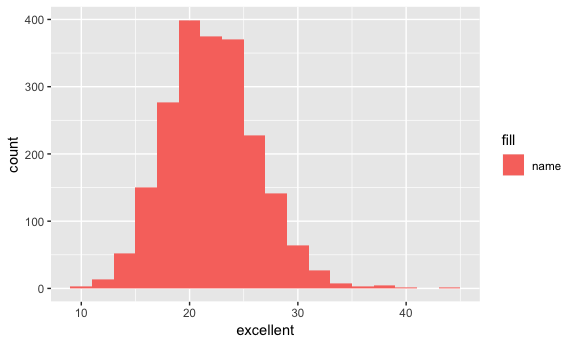
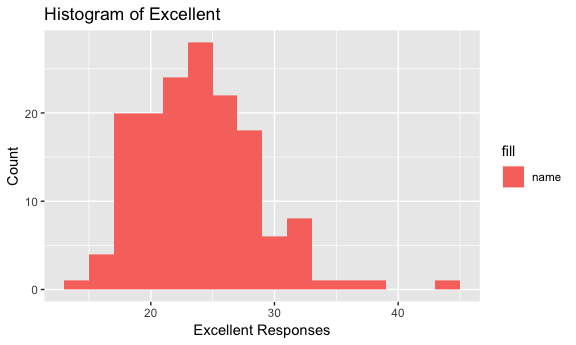
Edits

diff --git a/p8105_hw2_qg2155.md b/p8105_hw2_qg2155.md
@@ -3,44 +3,6 @@ p8105\_hw2\_qg2155
 Qiu Xia (Helen) Guan
 9/28/2018
 
-``` r
-library(tidyverse)
-```
-
-    ## ── Attaching packages ────────────────────────────────────────────────────────────── tidyverse 1.2.1 ──
-
-    ## ✔ ggplot2 3.0.0     ✔ purrr   0.2.5
-    ## ✔ tibble  1.4.2     ✔ dplyr   0.7.6
-    ## ✔ tidyr   0.8.1     ✔ stringr 1.3.1
-    ## ✔ readr   1.1.1     ✔ forcats 0.3.0
-
-    ## ── Conflicts ───────────────────────────────────────────────────────────────── tidyverse_conflicts() ──
-    ## ✖ dplyr::filter() masks stats::filter()
-    ## ✖ dplyr::lag()    masks stats::lag()
-
-``` r
-library(magrittr)
-```
-
-    ## 
-    ## Attaching package: 'magrittr'
-
-    ## The following object is masked from 'package:purrr':
-    ## 
-    ##     set_names
-
-    ## The following object is masked from 'package:tidyr':
-    ## 
-    ##     extract
-
-``` r
-knitr::opts_chunk$set(
-  fig.width = 6,
-  fig.asp = .6,
-  out.width = "90%"
-)
-```
-
 Problem 1
 =========
 
@@ -53,23 +15,6 @@ subway_data =
   select(line:entry, vending, ada) %>% 
   mutate(entry = recode(entry, "YES" = TRUE, "NO" = FALSE)) 
 ```
-
-    ## Parsed with column specification:
-    ## cols(
-    ##   .default = col_character(),
-    ##   `Station Latitude` = col_double(),
-    ##   `Station Longitude` = col_double(),
-    ##   Route8 = col_integer(),
-    ##   Route9 = col_integer(),
-    ##   Route10 = col_integer(),
-    ##   Route11 = col_integer(),
-    ##   ADA = col_logical(),
-    ##   `Free Crossover` = col_logical(),
-    ##   `Entrance Latitude` = col_double(),
-    ##   `Entrance Longitude` = col_double()
-    ## )
-
-    ## See spec(...) for full column specifications.
 
 This dataset has 19 columns and 1868 rows. The variables are line, station names, station latitude and longitude, routes served, entry, vending, entrance type, and ADA compliance. The data cleaning steps so far has been transforming column names into lower case and snake form with the clean\_names function, creating dataset with just the necessary variables with the select function, and recoding "entry" from character to a logical variable that shows TRUE for yes and FALSE for no. This dataset is not yet tidy because station names are not distinct.
 
@@ -188,14 +133,24 @@ states_distinct = brfss_data %>%
 -   This dataset has all the states including DC because there are 51 states entered. The state that is observed the most is NJ.
 -   In 2002, the median of the "Excellent" response value was 23.6.
 
-### To create a histogram of Excellent responses
+### To create a histogram of Excellent responses for year 2002
 
 ``` r
-ggplot(brfss_data, aes(x = excellent, fill = "name")) +
-  geom_histogram(position = "dodge", binwidth = 2)
+brfss_data_histogram = brfss_data %>%
+  filter(year == 2002)
 ```
 
-    ## Warning: Removed 6 rows containing non-finite values (stat_bin).
+``` r
+ggplot(brfss_data_histogram, aes(x = excellent, fill = "name")) +
+  geom_histogram(binwidth = 2) +
+  labs(
+    title = "Histogram of Excellent",
+    x = "Excellent Responses",
+    y = "Count"
+  )
+```
+
+    ## Warning: Removed 2 rows containing non-finite values (stat_bin).
 
 <img src="p8105_hw2_qg2155_files/figure-markdown_github/histogram-1.png" width="90%" />
 
@@ -203,7 +158,17 @@ ggplot(brfss_data, aes(x = excellent, fill = "name")) +
 
 ``` r
 brfss_data_graph = brfss_data %>% 
-  filter(locationdesc == "NY - Queens County" | locationdesc == "NY - New York County") %>%
-  ggplot(aes(x = year, y = excellent, color = "name")) +
-      geom_point()
+  filter(locationdesc == "NY - Queens County" | locationdesc == "NY - New York County") 
 ```
+
+``` r
+ggplot(brfss_data_graph, aes(x = year, y = excellent)) +
+  geom_point(aes(color = locationdesc), alpha = .5) +
+  labs(
+  title = "Excellent plot",
+  x = "Year",
+  y = "Proportion of responses with excellent"
+  )
+```
+
+<img src="p8105_hw2_qg2155_files/figure-markdown_github/scatterplot-1.png" width="90%" />
